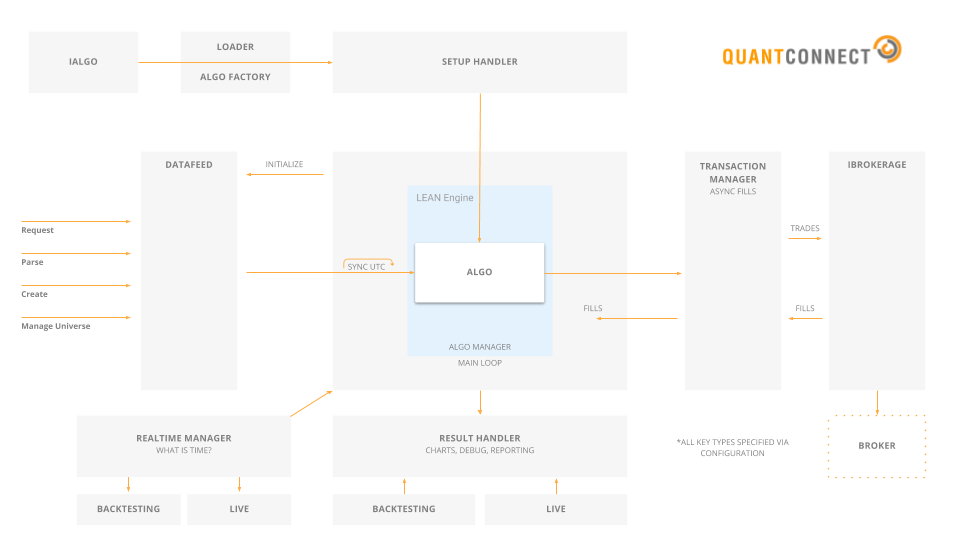
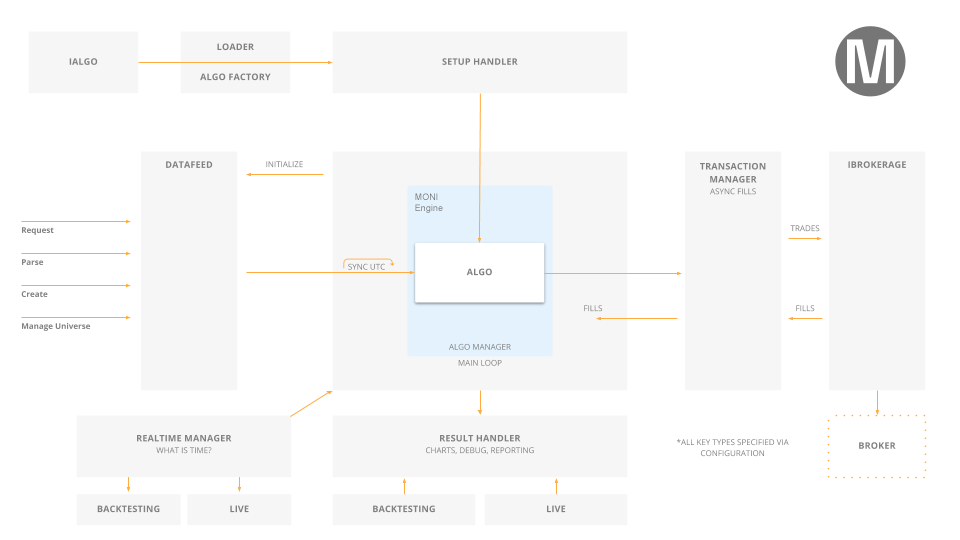
Initial commit

Changed region(s): [[0.75, 0.0296, 0.9688, 0.1778], [0.4375, 0.3556, 0.5, 0.4148]]

diff --git a/readme.md b/readme.md
@@ -60,7 +60,7 @@ Please submit bugs and feature requests as an issue to the [Monilar Repository][
 
 ## Contributors and Pull Requests ##
 
-Contributions are warmly very welcomed but we ask you to read the existing code to see how it is formatted, commented and ensure contributions match the existing style. All code submissions must include accompanying tests. Please see the [contributor guide lines][7]. All accepted pull requests will get a 2mo free Prime subscription on QuantConnect. Once your pull-request has been merged write to us at support@quantconnect.com with a link to your PR to claim your free live trading. QC <3 Open Source.
+Contributions are warmly very welcomed but we ask you to read the existing code to see how it is formatted, commented and ensure contributions match the existing style. All code submissions must include accompanying tests. You can contact us through support@monilar.com anytime if you have any questions on mind.
 
 A huge thank-you all our contributors!
 
